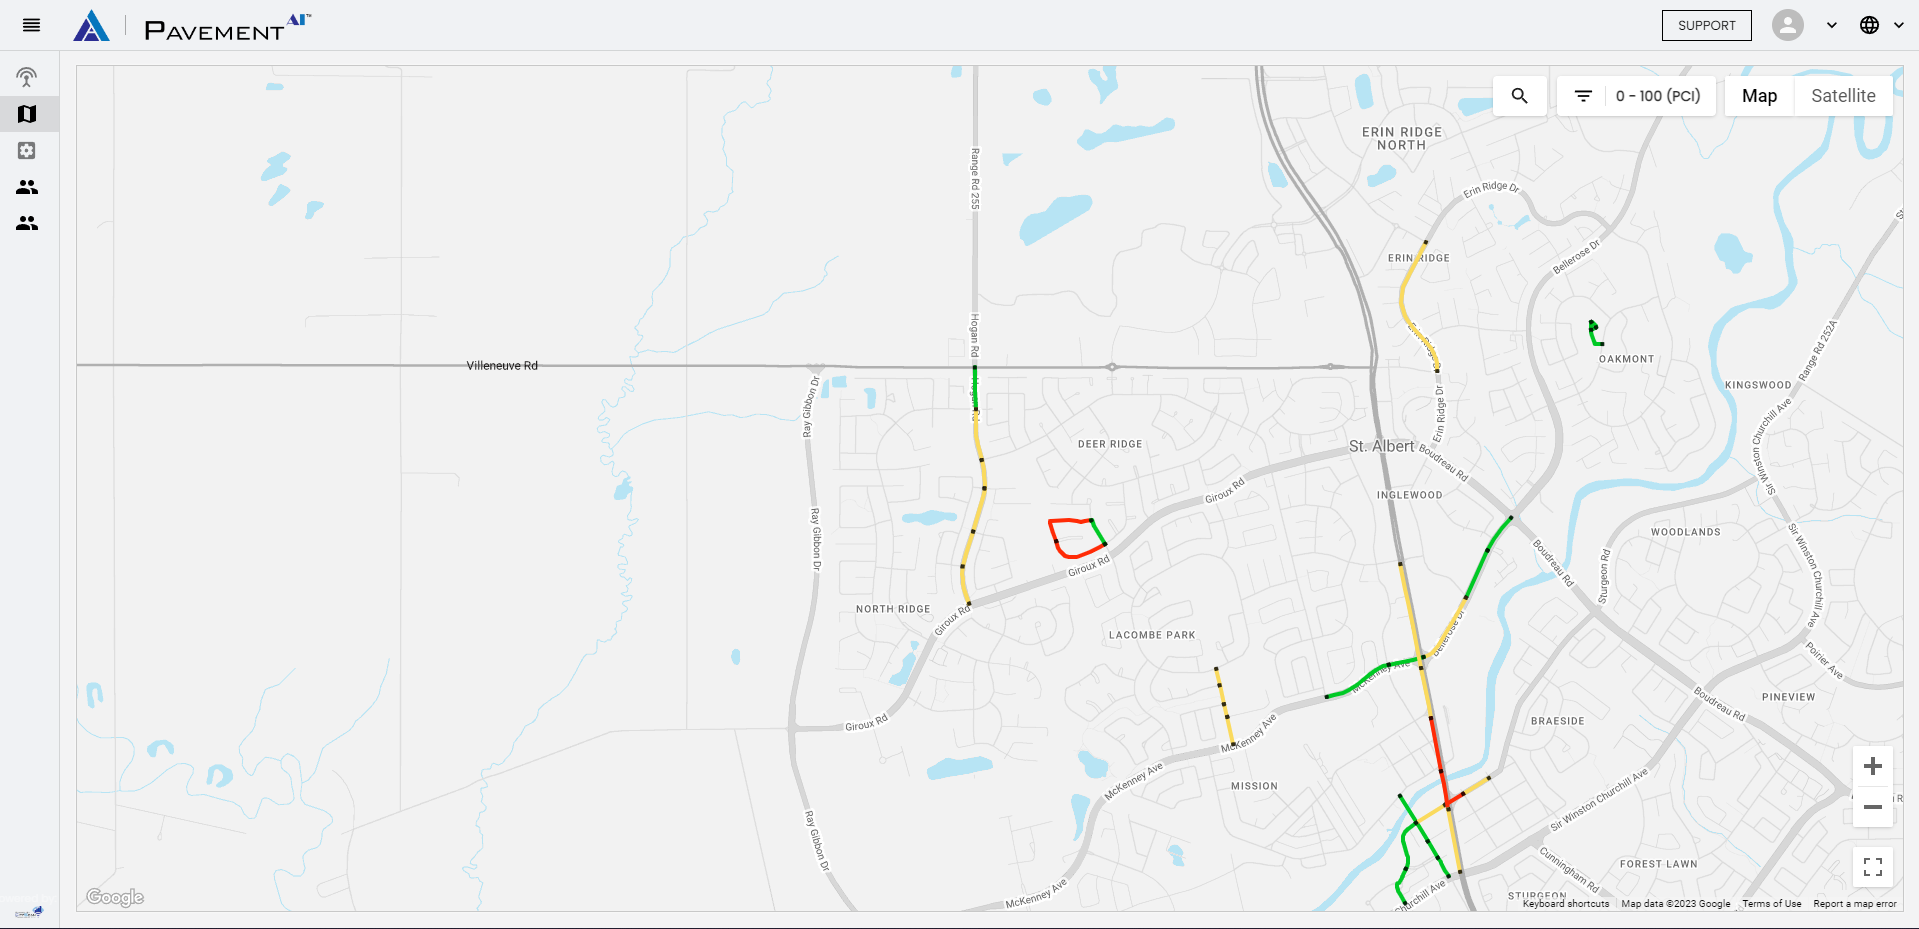
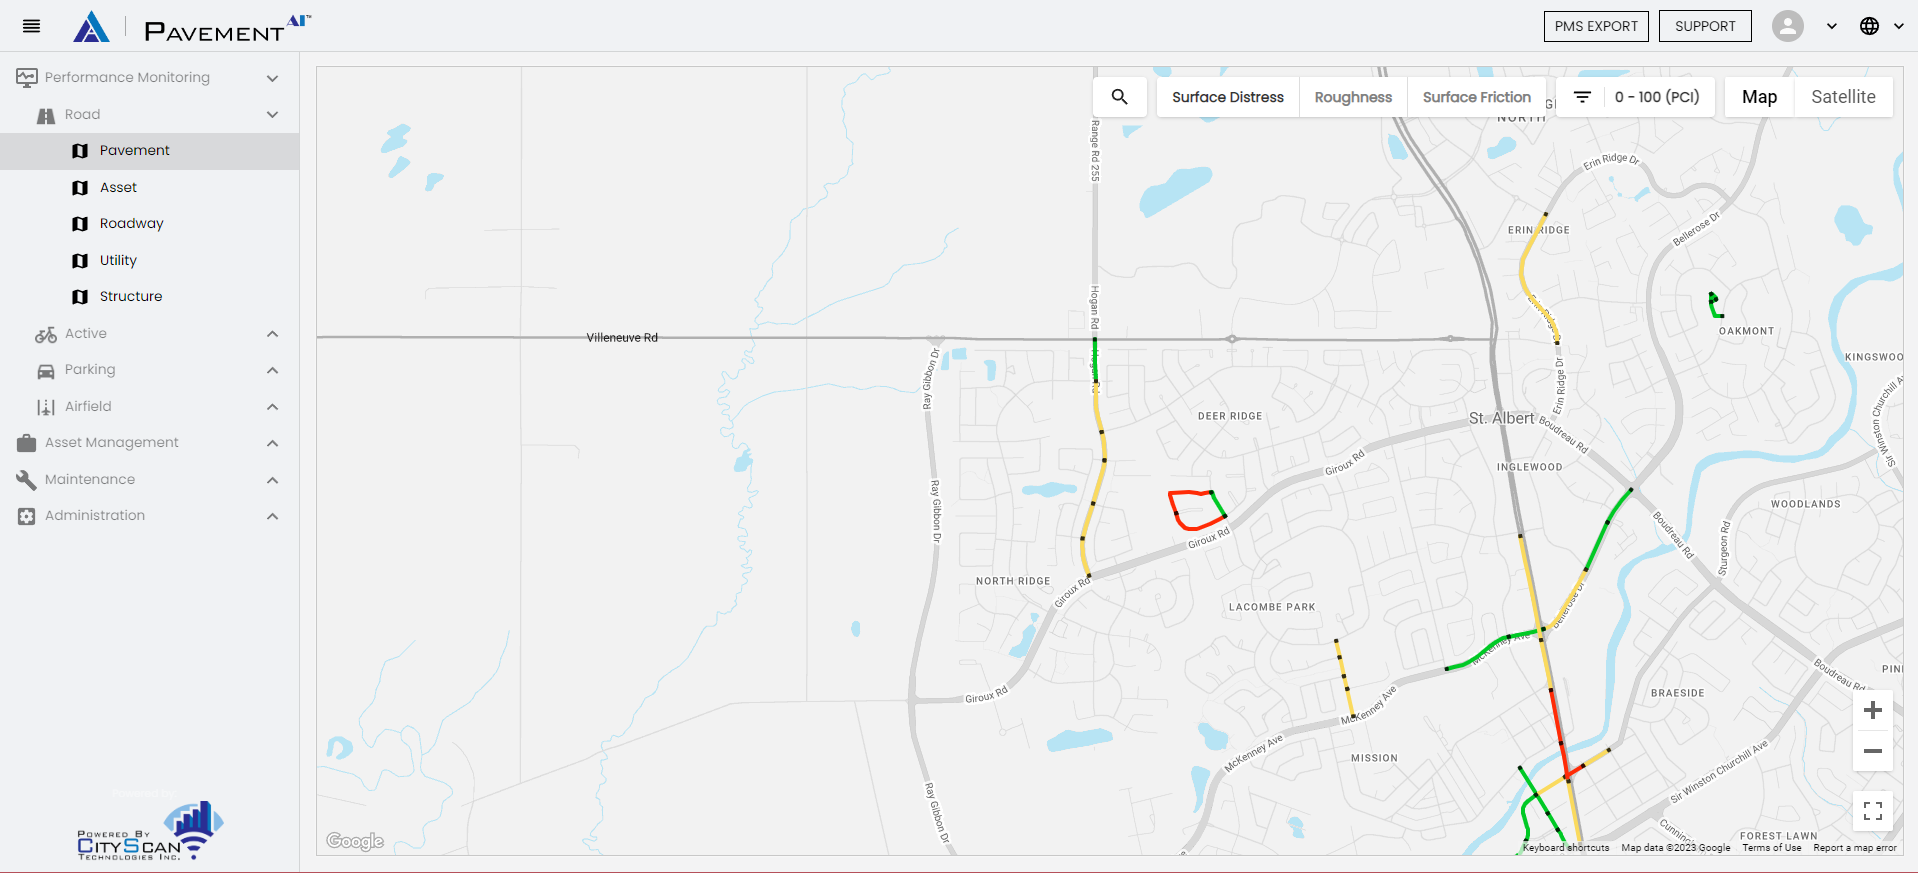
Update links and images

diff --git a/src/components/Contact/index.tsx b/src/components/Contact/index.tsx
@@ -18,16 +18,10 @@ const Contact = () => (
             </div>
 
             <div className='flex gap-4 mb-10 place-items-center justify-center '>
-                <div className='ease-in-out duration-300 items-center rounded-full p-2 border-red border-2 group hover:bg-red cursor-pointer'>
-                    <Icon
-                        iconName='facebook'
-                        iconProps={{
-                            className:
-                                'ease-in-out duration-300 text-white dark:text-black dark:group-hover:text-white'
-                        }}
-                    />
-                </div>
-                <div className='items-center ease-in-out duration-300 rounded-full p-2 border-red border-2 group hover:bg-red cursor-pointer'>
+                <a
+                    href='https://www.linkedin.com/in/waheed-uddin-ahmed-09143a1b2/'
+                    className='items-center ease-in-out duration-300 rounded-full p-2 border-red border-2 group hover:bg-red cursor-pointer'
+                >
                     <Icon
                         iconName='linkedIn'
                         iconProps={{
@@ -35,7 +29,7 @@ const Contact = () => (
                                 'ease-in-out duration-300 text-white dark:text-black dark:group-hover:text-white'
                         }}
                     />
-                </div>
+                </a>
             </div>
         </div>
     </div>

diff --git a/src/components/common/CustomLink.tsx b/src/components/common/CustomLink.tsx
@@ -7,7 +7,7 @@ type LinkButtonProps = {
     className?: string;
 } & React.AnchorHTMLAttributes<HTMLAnchorElement>;
 
-const LinkButton = ({ variant = 'primary', className, ...rest }: LinkButtonProps) => {
+const LinkButton = ({ variant = 'primary', className, children, ...rest }: LinkButtonProps) => {
     if (variant === 'primary') {
         return (
             <a
@@ -16,14 +16,14 @@ const LinkButton = ({ variant = 'primary', className, ...rest }: LinkButtonProps
                     className && className
                 }`}
             >
-                My Resume
+                {children}
             </a>
         );
     }
 
     return (
         <a {...rest} className={className}>
-            My Resume
+            {children}
         </a>
     );
 };

diff --git a/src/json/data.ts b/src/json/data.ts
@@ -59,7 +59,7 @@ export const projects = [
         description:
             'A Web application for monitoring and reporting pavement defects using interactive maps and search/filter functionality, with machine learning-powered crack detection.',
         technologies: ['AWS', 'React TS', 'Python', 'Maps'],
-        link: 'http://cityscan-roadeye-app-dev.s3-website-us-west-2.amazonaws.com/pavement-map'
+        link: 'http://cityscan-roadeye-app-dev.s3-website-us-west-2.amazonaws.com/performance-monitoring/road/pavement'
     },
     {
         image: MyHealthImage,
